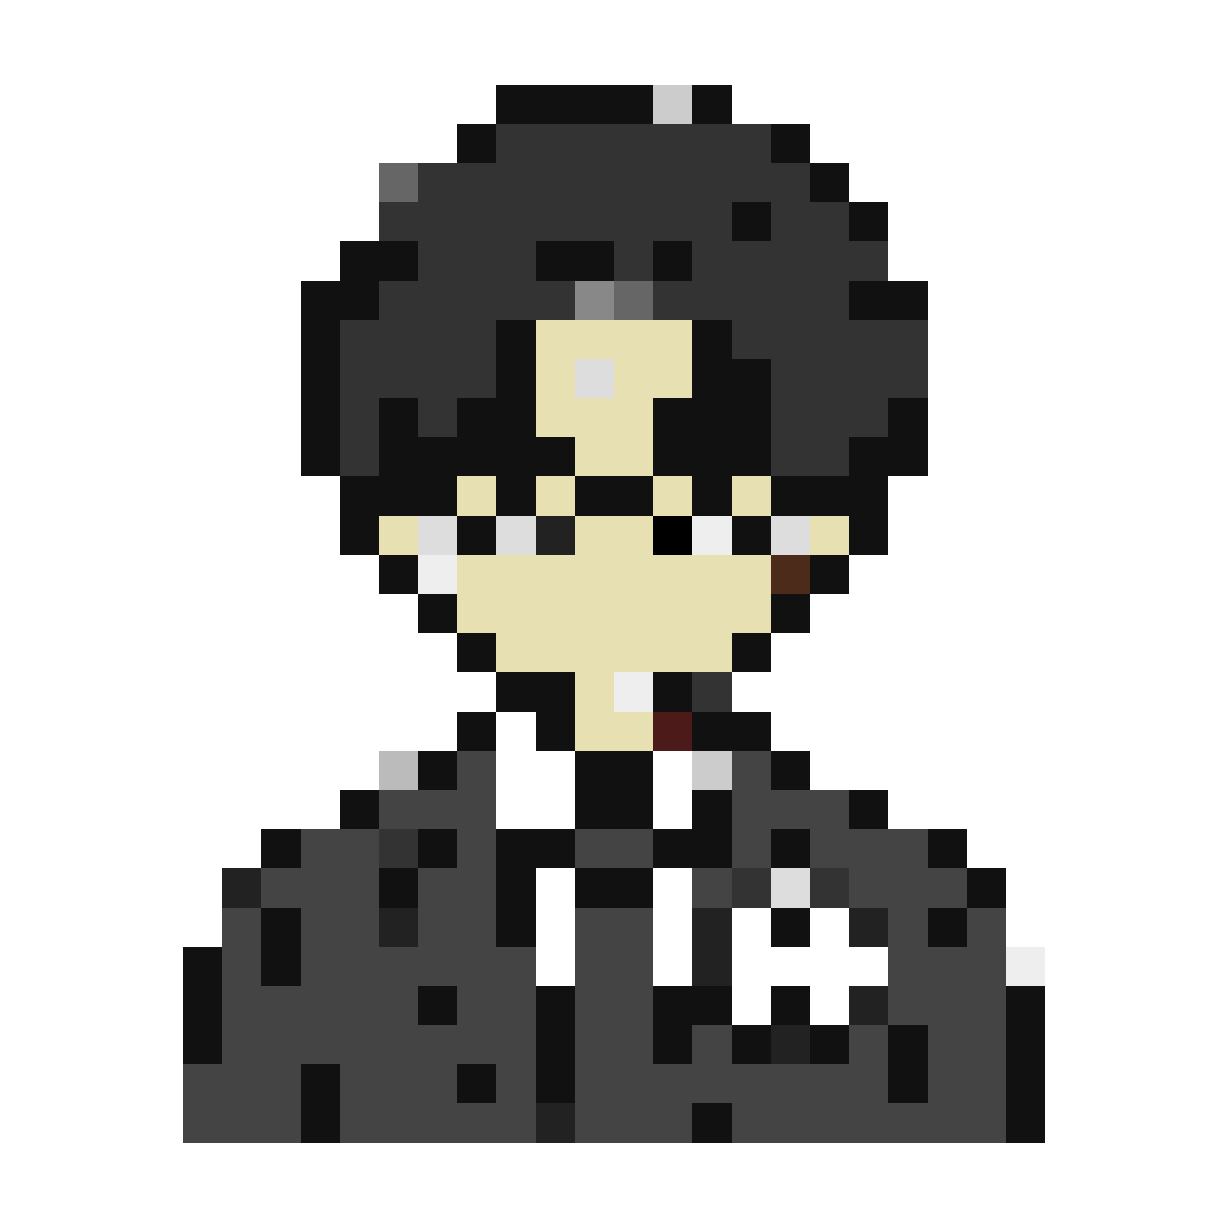
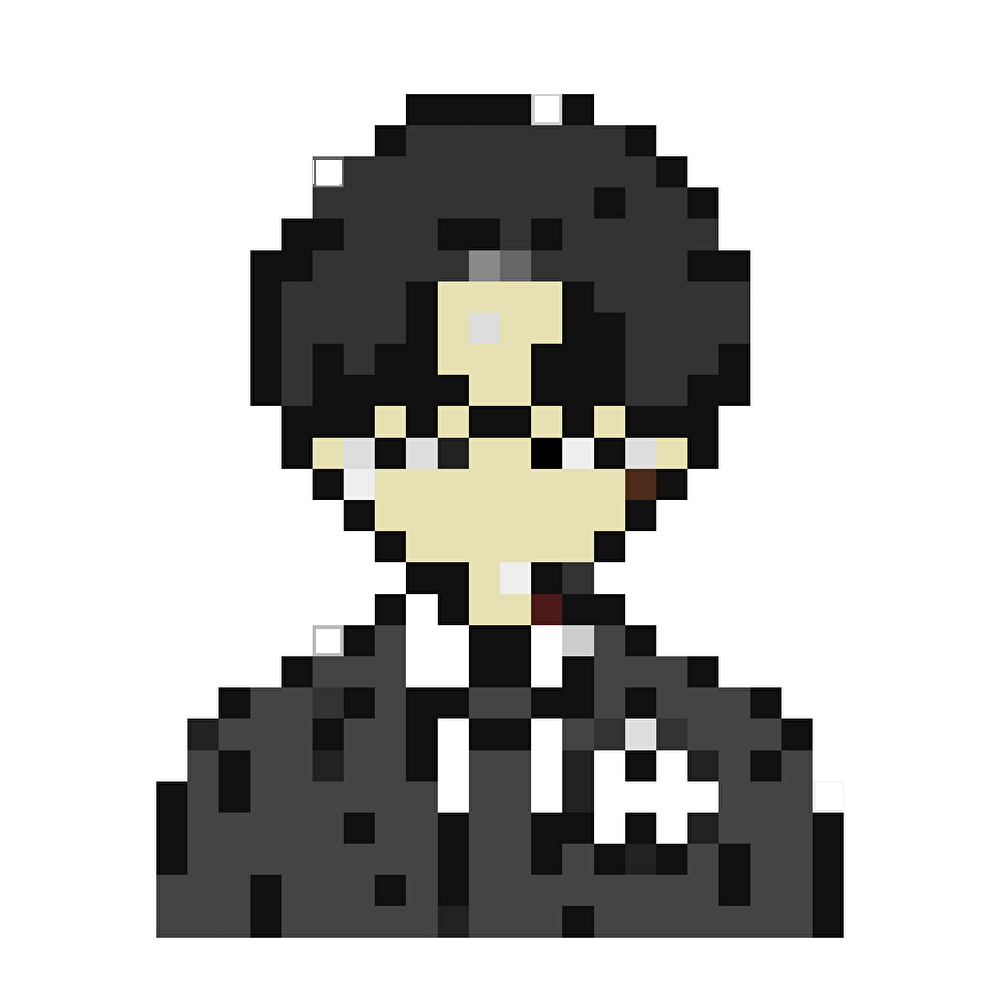
Update RMPM demo

diff --git a/src/index.css b/src/index.css
@@ -1,5 +1,5 @@
 @import url('https://fonts.googleapis.com/css2?family=Noto+Sans+JP:wght@400;500;600;700&family=Shippori+Mincho:wght@600;700&display=swap');
-:root { --navy:#132a43; --ink:#172433; --muted:#667483; --line:#dce4eb; --blue:#e9f3fa; --paper:#fff; --bg:#f5f8fa; }
+:root { --navy:#132a43; --ink:#172433; --muted:#667483; --line:#dce4eb; --blue:#e9f3fa; --paper:#f7f0e6; --bg:#f7f0e6; }
 * { box-sizing:border-box; } html { scroll-behavior:smooth; } body { margin:0; background:var(--paper); color:var(--ink); font-family:'Noto Sans JP',sans-serif; } a { color:inherit; text-decoration:none; } button { font:inherit; }
 .site-header { height:76px; display:flex; align-items:center; justify-content:space-between; padding:0 max(24px,calc((100vw - 1180px)/2)); border-bottom:1px solid var(--line); background:rgba(255,255,255,.96); position:sticky; top:0; z-index:10; }
 .brand { font-size:23px; font-weight:700; letter-spacing:.06em; color:var(--navy); }.brand span { font-size:12px; font-weight:500; margin-left:13px; padding-left:13px; border-left:1px solid var(--line); color:var(--muted); letter-spacing:.04em; } nav { display:flex; gap:30px; font-size:13px; font-weight:600; color:#455669; }.brand-button,nav button,.text-link{border:0;background:none;cursor:pointer;padding:0}.site-header nav .home-nav-button{padding-right:22px;border-right:1px solid var(--line);color:#a9530d}.menu-button{display:none}
@@ -19,8 +19,8 @@
 @media(max-width:800px){.site-header{padding:0 20px}.brand span,nav{display:none}.menu-button{display:block;border:1px solid var(--line);background:white;padding:7px 10px;font-size:10px;color:#52697a}.hero{padding:58px 22px 120px;display:block}.hero h1{font-size:37px}.lead{font-size:15px;line-height:1.8}.hero-diagram{margin:48px 6px 0}.hero-note{left:22px;right:22px;bottom:32px;width:auto}.section{padding:54px 20px}.section-heading{display:block}.section-heading p{margin-top:14px}.candidate-grid{grid-template-columns:1fr}.principles{margin:64px 24px}.hero-actions{gap:18px}.button{gap:24px}.detail-shell,.page-shell{padding:24px 20px 70px}.profile{align-items:flex-start}.profile-mark{width:56px;height:56px}.profile h1{font-size:26px}.fiction-label{display:none}.policy-tabs{overflow:auto;grid-template-columns:repeat(4,minmax(110px,1fr))}.detail-intro{margin-top:45px}.policy-flow{padding:22px 18px}.flow-head{display:block}.status-chip{display:inline-block;margin-top:16px}.flow-grid{display:block}.flow-grid section{min-height:0}.flow-arrow{padding:10px;transform:rotate(90deg)}.explanation,.sources{grid-template-columns:1fr;gap:14px}.source-buttons{grid-template-columns:1fr}.map-heading{display:block}.chart-wrap{padding:10px 2px}.map-labels{flex-wrap:wrap}.page-title{padding:45px 0 25px}.page-title h1{font-size:34px}.compare-grid,.method-grid{grid-template-columns:1fr}.ai-note{grid-template-columns:1fr;gap:10px;padding:30px}.modal{padding:30px 22px}.compare-grid dl>div{min-height:0}footer{display:block}footer p{margin:8px 0}footer>span{display:block;margin-top:20px}}
 
 /* Warm civic palette: orange is reserved for navigation, selection and emphasis. */
-:root{--navy:#8f4b13;--ink:#222222;--muted:#6b7280;--line:#e5e7eb;--blue:#fff3e6;--paper:#ffffff;--bg:#fafafa}
-body{background:#ffffff;color:#222222}
+:root{--navy:#8f4b13;--ink:#222222;--muted:#6b7280;--line:#e5e7eb;--blue:#fff3e6;--paper:#f7f0e6;--bg:#f7f0e6}
+body{background:#f7f0e6;color:#222222}
 .site-header{background:rgba(255,255,255,.97);border-color:#e5e7eb;box-shadow:0 1px 0 rgba(82,55,34,.03)}
 .brand{color:#a9530d}.brand span,nav{color:#555b63}.menu-button{color:#6b513d;background:#fffaf5;border-color:#eadfd5}
 .eyebrow,.kicker{color:#b85c00}.hero h1{color:#743b0e}.hero h1 em:after{background:#ffe5cc}.lead{color:#555b63}
